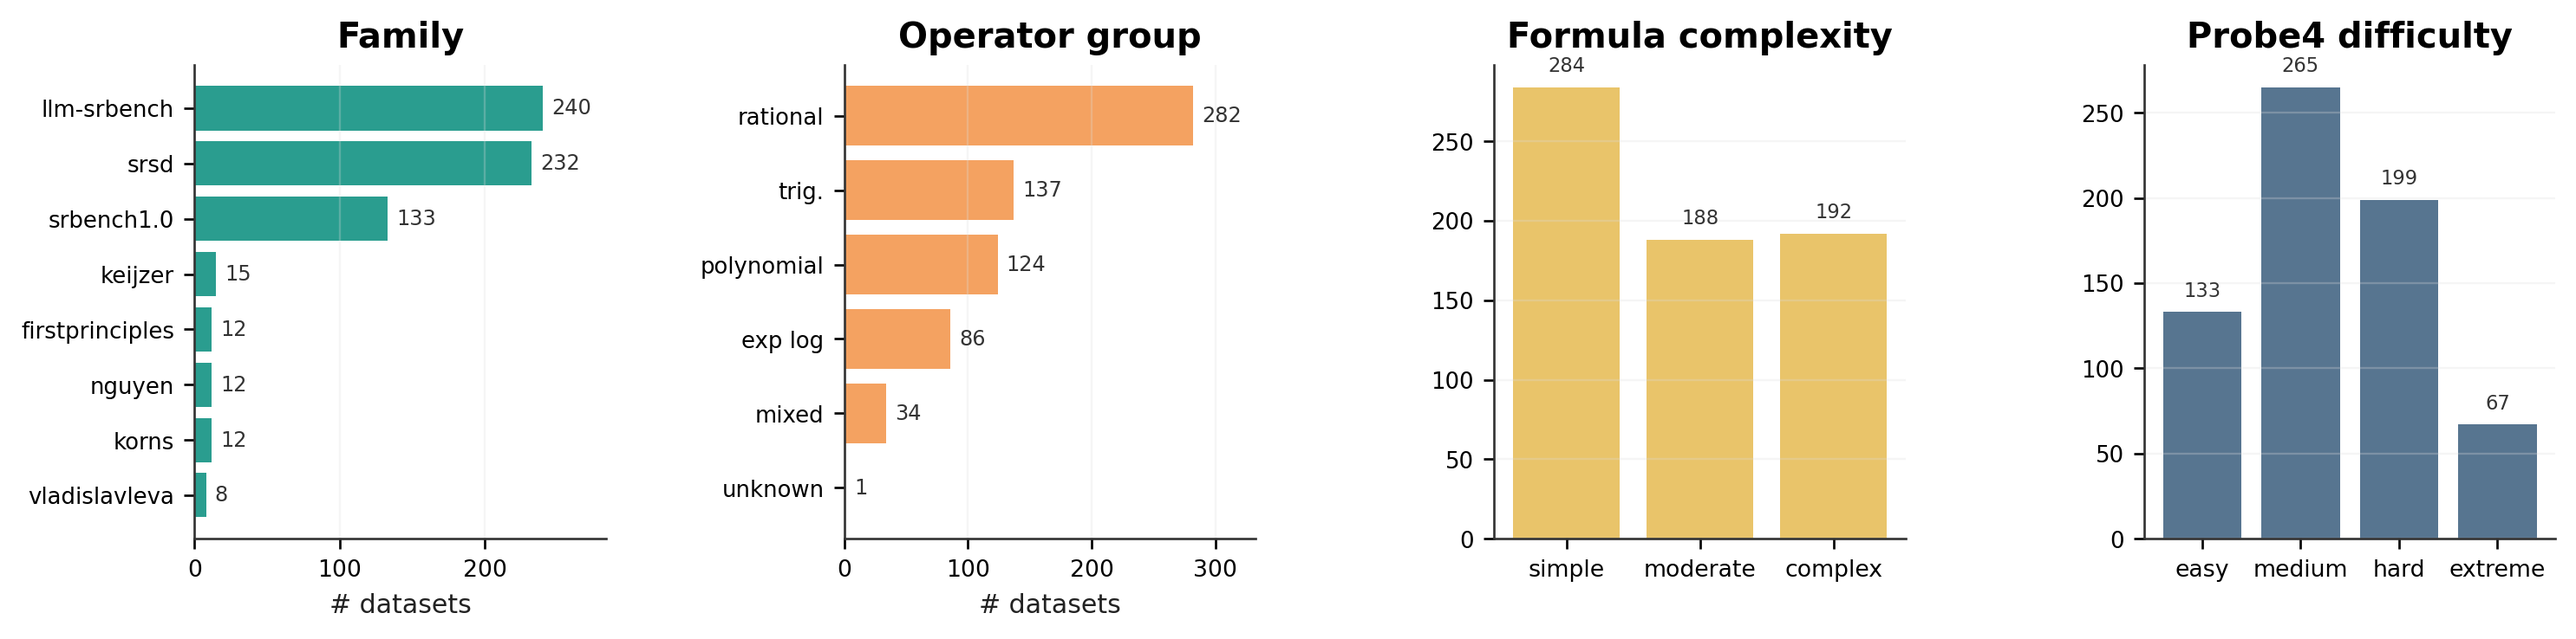
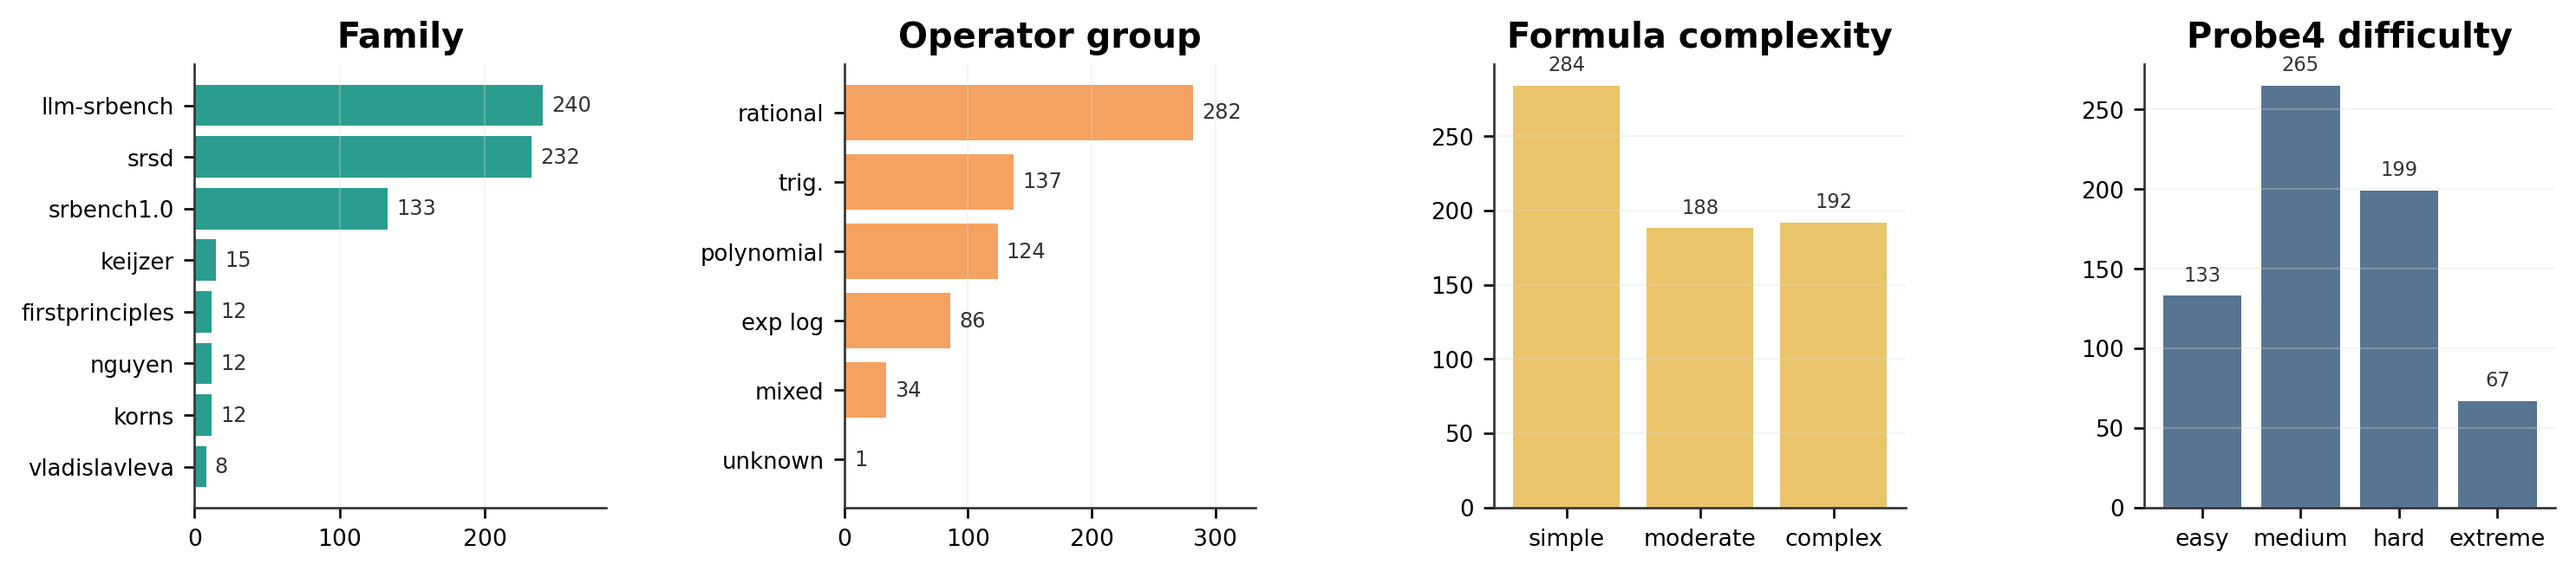
[update] 优化GT数据池组成图版式

diff --git a/check/plot_paper_experiment_figures.py b/check/plot_paper_experiment_figures.py
@@ -383,9 +383,9 @@ def plot_reservoir_composition(dataset_level: pd.DataFrame, record: list[FigureR
         for idx, value in enumerate(values):
             ax.text(idx, value + ymax * 0.025, f"{int(value)}", ha="center", va="bottom", fontsize=6.8, color="#333333")
 
-    # 正文里这张图会被压到单页文本宽度。保持 1x4 结构，但使用更高、
-    # 更紧凑的画布，避免超宽浅图在论文中缩得过小。
-    fig, axes = plt.subplots(1, 4, figsize=(12.4, 4.15))
+    # 正文里这张图会被压到单页文本宽度。保持 1x4 结构，并压缩高度，
+    # 避免在论文中占用过多纵向空间。
+    fig, axes = plt.subplots(1, 4, figsize=(12.4, 3.55))
     family = dataset_level["family"].value_counts()
     family_labels = ["firstprinciples" if str(x) == "srbench2025/firstprinciples" else x for x in family.index]
     family_y = np.arange(len(family))
@@ -394,7 +394,6 @@ def plot_reservoir_composition(dataset_level: pd.DataFrame, record: list[FigureR
     axes[0].set_yticks(family_y)
     axes[0].set_yticklabels([wrap_label(x, 14) for x in family_labels])
     axes[0].invert_yaxis()
-    axes[0].set_xlabel("# datasets")
     family_xmax = max(family.values) if len(family.values) else 0
     axes[0].set_xlim(0, family_xmax * 1.18)
     for idx, value in enumerate(family.values):
@@ -413,7 +412,6 @@ def plot_reservoir_composition(dataset_level: pd.DataFrame, record: list[FigureR
     axes[1].set_yticks(op_y)
     axes[1].set_yticklabels([wrap_label(x, 14) for x in op_labels])
     axes[1].invert_yaxis()
-    axes[1].set_xlabel("# datasets")
     op_xmax = max(op.values) if len(op.values) else 0
     axes[1].set_xlim(0, op_xmax * 1.18)
     for idx, value in enumerate(op.values):
@@ -442,7 +440,7 @@ def plot_reservoir_composition(dataset_level: pd.DataFrame, record: list[FigureR
         ax.tick_params(axis="x", labelsize=8.0)
         ax.tick_params(axis="y", labelsize=7.8)
 
-    fig.subplots_adjust(left=0.070, right=0.985, top=0.75, bottom=0.20, wspace=0.58)
+    fig.subplots_adjust(left=0.070, right=0.985, top=0.72, bottom=0.12, wspace=0.58)
     files = save(fig, OUTDIR / "figure02_reservoir_composition.png")
     record.append(FigureRecord("Figure 2", "GT-Reservoir composition", "generated", ";".join(files)))
 
